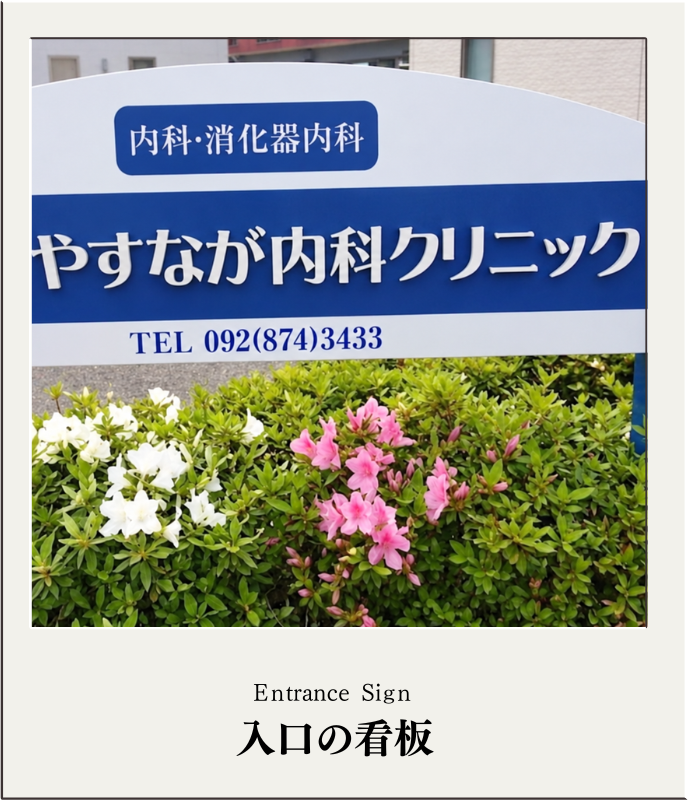
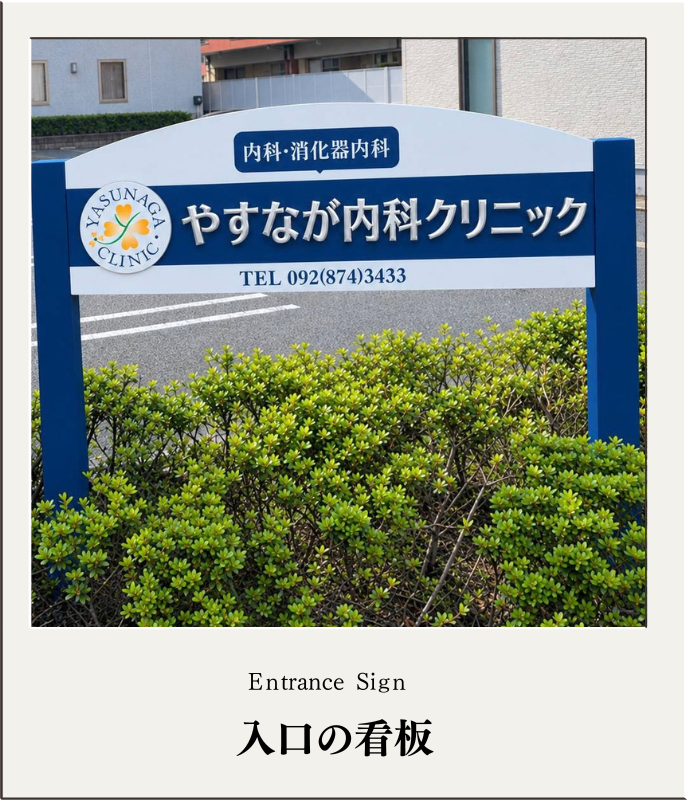
当院について・トップの施設紹介：外観（上・下）と入口の看板を新しい写真に差し替え。PCの並びを1段目=外観2枚、以降3枚ずつに変更し写真を切り取らず全体表示（スマホは変更なし）、PC用CSSをv=33に更新

diff --git a/当院について.html b/当院について.html
@@ -7,7 +7,7 @@
     <meta name="description" content="やすなが内科クリニックの施設のご紹介。外観や診察室、処置室、受付、待合室のほか、超音波検査機器や換気設備をご覧いただけます。">
     <link rel="stylesheet" href="style.final.css?v=32">
     <!-- PC（1024px以上）用レイアウト。中身はすべて @media (min-width:1024px) で囲まれているため、スマホ幅では1行も効きません -->
-    <link rel="stylesheet" href="style.pc.css?v=32">
+    <link rel="stylesheet" href="style.pc.css?v=33">
     <link rel="preconnect" href="https://fonts.googleapis.com">
     <link rel="preconnect" href="https://fonts.gstatic.com" crossorigin>
     <link href="https://fonts.googleapis.com/css2?family=Noto+Serif+JP:wght@400;700;900&family=Noto+Sans+JP:wght@300;400;500;700&display=swap" rel="stylesheet">
@@ -284,9 +284,9 @@
                 <h2 class="section-title">施設のご紹介</h2>
             </div>
             <div class="about-photo-grid" style="margin: 0 -20px;">
-                <img src="images/外観2_上.png" alt="クリニック外観" class="about-photo">
-                <img src="images/外観2_下.png" alt="クリニック外観" class="about-photo">
-                <img src="images/入口看板_当院について.png?v=3" alt="入口看板" class="about-photo">
+                <img src="images/外観2_上.png?v=2" alt="クリニック外観" class="about-photo">
+                <img src="images/外観2_下.png?v=2" alt="クリニック外観" class="about-photo">
+                <img src="images/入口看板_当院について.png?v=4" alt="入口看板" class="about-photo">
                 <img src="images/受付_v2.png" alt="受付" class="about-photo">
                 <img src="images/待合室_v3.png" alt="待合室" class="about-photo">
                 <img src="images/待合室2_v4.png" alt="待合室" class="about-photo">

diff --git a/index.html b/index.html
@@ -7,7 +7,7 @@
     <meta name="description" content="早良区飯倉バス停前、消化器病専門医による診療、糖尿病・高脂血症などの生活習慣病、健康診断・各種検診、甲状腺・上下腹部の超音波検査も行なっています。地域の皆さまの健康管理を幅広くサポートします。">
     <link rel="stylesheet" href="style.final.css?v=32">
     <!-- PC（1024px以上）用レイアウト。中身はすべて @media (min-width:1024px) で囲まれているため、スマホ幅では1行も効きません -->
-    <link rel="stylesheet" href="style.pc.css?v=32">
+    <link rel="stylesheet" href="style.pc.css?v=33">
     <link rel="preconnect" href="https://fonts.googleapis.com">
     <link rel="preconnect" href="https://fonts.gstatic.com" crossorigin>
     <link href="https://fonts.googleapis.com/css2?family=Noto+Serif+JP:wght@400;700;900&family=Noto+Sans+JP:wght@300;400;500;700&display=swap" rel="stylesheet">
@@ -415,7 +415,7 @@
             <p class="facility-gallery-hint">← スワイプしてご覧ください →</p>
             <div class="facility-gallery-scroll">
                 <div class="facility-gallery-item"><img src="images/外観_v2.png" alt="クリニック外観" loading="lazy"></div>
-                <div class="facility-gallery-item"><img src="images/入口看板_当院について.png?v=3" alt="入口看板" loading="lazy"></div>
+                <div class="facility-gallery-item"><img src="images/入口看板_当院について.png?v=4" alt="入口看板" loading="lazy"></div>
                 <div class="facility-gallery-item"><img src="images/受付_v2.png" alt="受付" loading="lazy"></div>
                 <div class="facility-gallery-item"><img src="images/待合室_v3.png" alt="待合室" loading="lazy"></div>
                 <div class="facility-gallery-item"><img src="images/待合室2_v4.png" alt="待合室" loading="lazy"></div>

diff --git a/市の健診.html b/市の健診.html
@@ -7,7 +7,7 @@
     <meta name="description" content="やすなが内科クリニックで実施している福岡市の健診・検査のご案内。前立腺がん検診、大腸がん検診、胃がんリスク検査、肝炎ウィルス検査、風疹抗体検査、よかドックに対応しています（要予約）。">
     <link rel="stylesheet" href="style.final.css?v=32">
     <!-- PC（1024px以上）用レイアウト。中身はすべて @media (min-width:1024px) で囲まれているため、スマホ幅では1行も効きません -->
-    <link rel="stylesheet" href="style.pc.css?v=32">
+    <link rel="stylesheet" href="style.pc.css?v=33">
     <link rel="preconnect" href="https://fonts.googleapis.com">
     <link rel="preconnect" href="https://fonts.gstatic.com" crossorigin>
     <link href="https://fonts.googleapis.com/css2?family=Noto+Serif+JP:wght@400;700;900&family=Noto+Sans+JP:wght@300;400;500;700&display=swap" rel="stylesheet">

diff --git a/特定健診.html b/特定健診.html
@@ -7,7 +7,7 @@
     <meta name="description" content="福岡市早良区のやすなが内科クリニックの健康診断・企業健診・特定健診のご案内。個人・企業向けの健康診断から、生活習慣病の予防・早期発見のための特定健診まで対応しています（要予約）。">
     <link rel="stylesheet" href="style.final.css?v=32">
     <!-- PC（1024px以上）用レイアウト。中身はすべて @media (min-width:1024px) で囲まれているため、スマホ幅では1行も効きません -->
-    <link rel="stylesheet" href="style.pc.css?v=32">
+    <link rel="stylesheet" href="style.pc.css?v=33">
     <link rel="preconnect" href="https://fonts.googleapis.com">
     <link rel="preconnect" href="https://fonts.gstatic.com" crossorigin>
     <link href="https://fonts.googleapis.com/css2?family=Noto+Serif+JP:wght@400;700;900&family=Noto+Sans+JP:wght@300;400;500;700&display=swap" rel="stylesheet">

diff --git a/ワクチン.html b/ワクチン.html
@@ -7,7 +7,7 @@
     <meta name="description" content="やすなが内科クリニックのワクチン・予防接種のご案内。帯状疱疹ワクチン、肺炎球菌ワクチン、インフルエンザワクチンなど福岡市の助成対象ワクチンに対応しています（要予約）。">
     <link rel="stylesheet" href="style.final.css?v=32">
     <!-- PC（1024px以上）用レイアウト。中身はすべて @media (min-width:1024px) で囲まれているため、スマホ幅では1行も効きません -->
-    <link rel="stylesheet" href="style.pc.css?v=32">
+    <link rel="stylesheet" href="style.pc.css?v=33">
     <link rel="preconnect" href="https://fonts.googleapis.com">
     <link rel="preconnect" href="https://fonts.gstatic.com" crossorigin>
     <link href="https://fonts.googleapis.com/css2?family=Noto+Serif+JP:wght@400;700;900&family=Noto+Sans+JP:wght@300;400;500;700&display=swap" rel="stylesheet">

diff --git a/一般内科.html b/一般内科.html
@@ -7,7 +7,7 @@
     <meta name="description" content="福岡市早良区のやすなが内科クリニックの一般内科のご案内。呼吸器・アレルギー疾患、循環器疾患、甲状腺・内分泌疾患、泌尿器疾患まで、特定の臓器にとらわれず全身を診ます。">
     <link rel="stylesheet" href="style.final.css?v=32">
     <!-- PC（1024px以上）用レイアウト。中身はすべて @media (min-width:1024px) で囲まれているため、スマホ幅では1行も効きません -->
-    <link rel="stylesheet" href="style.pc.css?v=32">
+    <link rel="stylesheet" href="style.pc.css?v=33">
     <link rel="preconnect" href="https://fonts.googleapis.com">
     <link rel="preconnect" href="https://fonts.gstatic.com" crossorigin>
     <link href="https://fonts.googleapis.com/css2?family=Noto+Serif+JP:wght@400;700;900&family=Noto+Sans+JP:wght@300;400;500;700&display=swap" rel="stylesheet">

diff --git a/超音波検査.html b/超音波検査.html
@@ -7,7 +7,7 @@
     <meta name="description" content="やすなが内科クリニックの超音波（エコー）検査のご案内。消化器病専門医が腹部・頸動脈・甲状腺エコーを丁寧に行います。痛みがなく短時間で受けられる検査です。">
     <link rel="stylesheet" href="style.final.css?v=32">
     <!-- PC（1024px以上）用レイアウト。中身はすべて @media (min-width:1024px) で囲まれているため、スマホ幅では1行も効きません -->
-    <link rel="stylesheet" href="style.pc.css?v=32">
+    <link rel="stylesheet" href="style.pc.css?v=33">
     <link rel="preconnect" href="https://fonts.googleapis.com">
     <link rel="preconnect" href="https://fonts.gstatic.com" crossorigin>
     <link href="https://fonts.googleapis.com/css2?family=Noto+Serif+JP:wght@400;700;900&family=Noto+Sans+JP:wght@300;400;500;700&display=swap" rel="stylesheet">

diff --git a/院長紹介.html b/院長紹介.html
@@ -7,7 +7,7 @@
     <meta name="description" content="やすなが内科クリニック 院長 安永芳樹のご挨拶とプロフィールです。福岡市早良区飯倉で地域のかかりつけ医として、超音波検査を中心とした診療を行っています。">
     <link rel="stylesheet" href="style.final.css?v=32">
     <!-- PC（1024px以上）用レイアウト。中身はすべて @media (min-width:1024px) で囲まれているため、スマホ幅では1行も効きません -->
-    <link rel="stylesheet" href="style.pc.css?v=32">
+    <link rel="stylesheet" href="style.pc.css?v=33">
     <link rel="preconnect" href="https://fonts.googleapis.com">
     <link rel="preconnect" href="https://fonts.gstatic.com" crossorigin>
     <link href="https://fonts.googleapis.com/css2?family=Noto+Serif+JP:wght@400;700;900&family=Noto+Sans+JP:wght@300;400;500;700&display=swap" rel="stylesheet">

diff --git a/生活習慣病.html b/生活習慣病.html
@@ -7,7 +7,7 @@
     <meta name="description" content="福岡市早良区のやすなが内科クリニックの生活習慣病診療のご案内。高血圧症、糖尿病、脂質異常症などを、超音波検査も交えながら無理のない継続で管理します。">
     <link rel="stylesheet" href="style.final.css?v=32">
     <!-- PC（1024px以上）用レイアウト。中身はすべて @media (min-width:1024px) で囲まれているため、スマホ幅では1行も効きません -->
-    <link rel="stylesheet" href="style.pc.css?v=32">
+    <link rel="stylesheet" href="style.pc.css?v=33">
     <link rel="preconnect" href="https://fonts.googleapis.com">
     <link rel="preconnect" href="https://fonts.gstatic.com" crossorigin>
     <link href="https://fonts.googleapis.com/css2?family=Noto+Serif+JP:wght@400;700;900&family=Noto+Sans+JP:wght@300;400;500;700&display=swap" rel="stylesheet">

diff --git a/消化器内科.html b/消化器内科.html
@@ -7,7 +7,7 @@
     <meta name="description" content="やすなが内科クリニックの消化器内科のご案内。腹痛・胃もたれ・胸やけなどの症状から、幅広い超音波検査、ヘリコバクターピロリ検査まで対応しています。">
     <link rel="stylesheet" href="style.final.css?v=32">
     <!-- PC（1024px以上）用レイアウト。中身はすべて @media (min-width:1024px) で囲まれているため、スマホ幅では1行も効きません -->
-    <link rel="stylesheet" href="style.pc.css?v=32">
+    <link rel="stylesheet" href="style.pc.css?v=33">
     <link rel="preconnect" href="https://fonts.googleapis.com">
     <link rel="preconnect" href="https://fonts.gstatic.com" crossorigin>
     <link href="https://fonts.googleapis.com/css2?family=Noto+Serif+JP:wght@400;700;900&family=Noto+Sans+JP:wght@300;400;500;700&display=swap" rel="stylesheet">

diff --git a/診療内容.html b/診療内容.html
@@ -7,7 +7,7 @@
     <meta name="description" content="やすなが内科クリニックの診療案内。消化器内科、生活習慣病、一般内科（呼吸器・循環器・甲状腺・泌尿器疾患）、感染症外来のご案内です。">
     <link rel="stylesheet" href="style.final.css?v=32">
     <!-- PC（1024px以上）用レイアウト。中身はすべて @media (min-width:1024px) で囲まれているため、スマホ幅では1行も効きません -->
-    <link rel="stylesheet" href="style.pc.css?v=32">
+    <link rel="stylesheet" href="style.pc.css?v=33">
     <link rel="preconnect" href="https://fonts.googleapis.com">
     <link rel="preconnect" href="https://fonts.gstatic.com" crossorigin>
     <link href="https://fonts.googleapis.com/css2?family=Noto+Serif+JP:wght@400;700;900&family=Noto+Sans+JP:wght@300;400;500;700&display=swap" rel="stylesheet">

diff --git a/感染症外来.html b/感染症外来.html
@@ -7,7 +7,7 @@
     <meta name="description" content="やすなが内科クリニックの感染症外来（完全予約制）のご案内。発熱・咳・下痢などの症状の方は、お電話でご予約のうえご来院ください。">
     <link rel="stylesheet" href="style.final.css?v=32">
     <!-- PC（1024px以上）用レイアウト。中身はすべて @media (min-width:1024px) で囲まれているため、スマホ幅では1行も効きません -->
-    <link rel="stylesheet" href="style.pc.css?v=32">
+    <link rel="stylesheet" href="style.pc.css?v=33">
     <link rel="preconnect" href="https://fonts.googleapis.com">
     <link rel="preconnect" href="https://fonts.gstatic.com" crossorigin>
     <link href="https://fonts.googleapis.com/css2?family=Noto+Serif+JP:wght@400;700;900&family=Noto+Sans+JP:wght@300;400;500;700&display=swap" rel="stylesheet">
